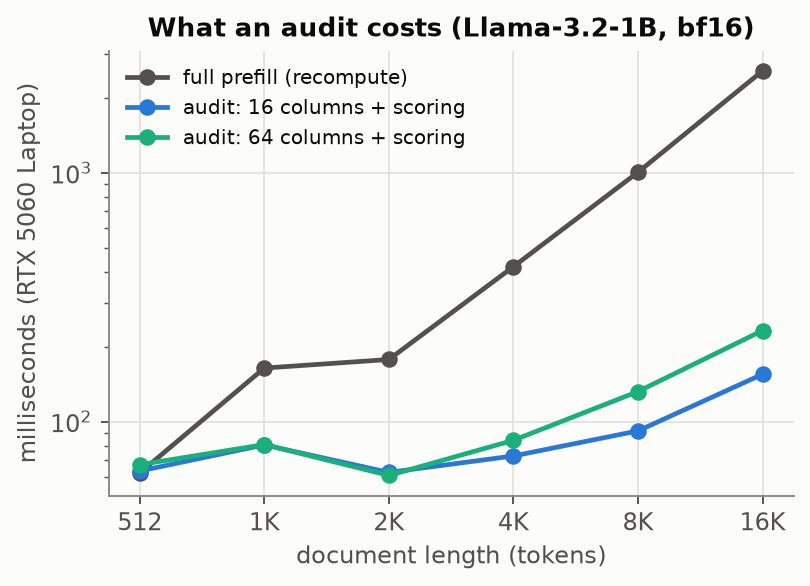
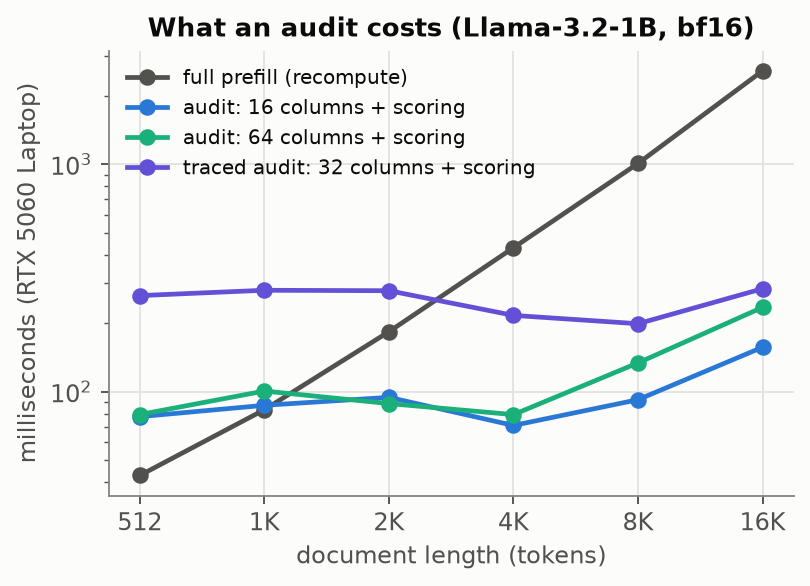
Cost figure: add traced audit

Changed region(s): [[0.0617, 0.1229, 0.9877, 0.8294]]

diff --git a/experiments/figures.py b/experiments/figures.py
@@ -251,6 +251,8 @@ def fig_cost():
     ax.plot(T, [r["prefill"] * 1e3 for r in rows], "-o", color=C["ink2"], label="full prefill (recompute)")
     ax.plot(T, [(r["cols16"] + r["influence"]) * 1e3 for r in rows], "-o", color=C["blue"], label="audit: 16 columns + scoring")
     ax.plot(T, [(r["cols64"] + r["influence"]) * 1e3 for r in rows], "-o", color=C["aqua"], label="audit: 64 columns + scoring")
+    if "trace32" in rows[0]:
+        ax.plot(T, [(r["trace32"] + r["influence"]) * 1e3 for r in rows], "-o", color=C["violet"], label="traced audit: 32 columns + scoring")
     ax.set_xscale("log", base=2)
     ax.set_yscale("log")
     ax.set_xticks(T, [f"{t // 1024}K" if t >= 1024 else str(t) for t in T])
